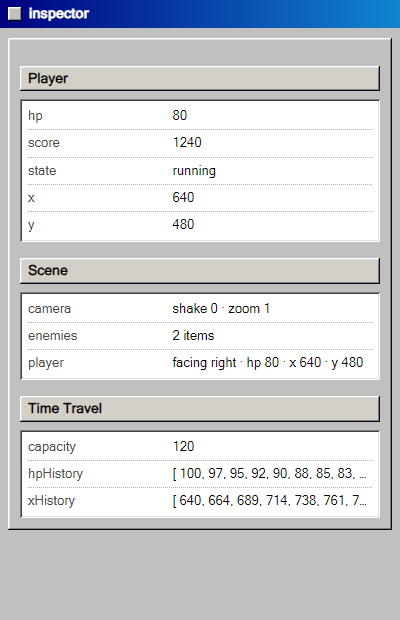
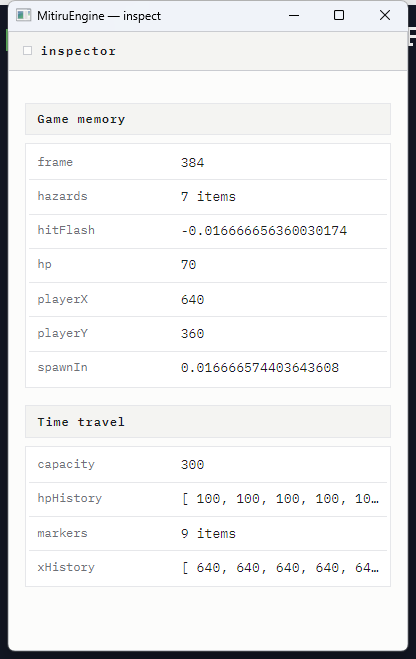
chore(release): snapshot

diff --git a/examples/mitiru_tool_cef/assets/tool.css b/examples/mitiru_tool_cef/assets/tool.css
@@ -1,53 +1,70 @@
-/* 全ツール窓 共通 Win95/98 同人質感スタイル (CEF/HTML 版)。
-   グレー地 + 立体ベベル枠 + 沈んだ well + ネイビーのタイトルバー。 */
+/* 全ツール窓 共通スタイル — テクニカルノートテーマ (紹介サイト/ポートフォリオと統一)。
+   クリーム紙 + グレースケール濃淡 + 極細罫線 + 等幅ラベル。陰影・ベベル・色は使わない。 */
+@import url('https://fonts.googleapis.com/css2?family=IBM+Plex+Mono:wght@400;500;600&family=Noto+Sans+JP:wght@400;500;700&display=swap');
+
 :root{
-  --bg:#c0c0c0; --bg2:#d4d0c8; --ink:#0a0a0a; --muted:#4a4a4a;
-  --accent:#000080; --accent2:#1084d0; --well:#ffffff; --track:#9a9a9a;
-  /* Win95 の 2px ベベル */
-  --raise: inset -1px -1px 0 #0a0a0a, inset 1px 1px 0 #ffffff,
-           inset -2px -2px 0 #808080, inset 2px 2px 0 #dfdfdf;
-  --sink:  inset 1px 1px 0 #808080, inset -1px -1px 0 #ffffff,
-           inset 2px 2px 0 #404040, inset -2px -2px 0 #dfdfdf;
+  --paper:#fcfcfb; --ink:#1a1c1f; --ink-body:#33363b; --muted:#6e7077; --faint:#999da4;
+  --rule:#c9cbd0; --rule-soft:#e6e7ea; --wash:#f4f4f2; --well:#ffffff;
+  --mono:'IBM Plex Mono','Noto Sans JP','Consolas',monospace;
+  --sans:'Noto Sans JP','Hiragino Kaku Gothic ProN',system-ui,sans-serif;
+  /* 旧 Saturn ベベル変数は no-op に (per-page で参照されても崩れないよう空 shadow) */
+  --raise:none; --sink:none; --bg:#fcfcfb; --bg2:#f4f4f2; --accent:#1a1c1f; --accent2:#1a1c1f; --track:#e6e7ea;
 }
 *{ box-sizing:border-box; margin:0; padding:0; }
 html,body{ height:100%; }
 body{
-  background:var(--bg); color:var(--ink);
-  font:400 13px/1.4 "MS Sans Serif",Tahoma,Geneva,system-ui,sans-serif;
-  padding:8px; user-select:none; overflow-x:hidden;
+  background:var(--paper); color:var(--ink-body);
+  font:400 13px/1.7 var(--sans);
+  font-feature-settings:"palt"; letter-spacing:.01em;
+  padding:0; user-select:none; overflow-x:hidden;
+  border:1px solid var(--rule);            /* 窓全体を 1px 罫で囲む */
+  -webkit-font-smoothing:antialiased;
 }
 
-/* タイトルバー (窓内のネイビー帯) */
+/* タイトルバー (ネイビー帯 → 紙地 + 下罫 + 等幅ラベル) */
 header{
-  display:flex; align-items:center; gap:7px;
-  background:linear-gradient(90deg,var(--accent),var(--accent2));
-  padding:4px 8px; margin:-8px -8px 10px; /* body padding を打ち消して上端まで */
+  display:flex; align-items:center; gap:8px;
+  background:var(--wash); padding:.55rem .9rem;
+  border-bottom:1px solid var(--rule);
 }
-header .dot{ width:14px; height:14px; background:#c0c0c0; box-shadow:var(--raise); flex:0 0 auto; }
-header h1{ font-size:14px; font-weight:700; color:#fff; letter-spacing:.3px;
-           text-shadow:1px 1px 0 rgba(0,0,0,.4); }
+header .dot{ width:9px; height:9px; border:1px solid var(--rule); background:var(--paper); flex:0 0 auto; }
+header h1{
+  font-family:var(--mono); font-size:.74rem; font-weight:600;
+  letter-spacing:.12em; color:var(--ink); text-shadow:none;
+}
 
-/* 本文の枠 (外周ベベル) */
-.body{ background:var(--bg); box-shadow:var(--raise); padding:12px; }
+/* 本文の枠 (ベベル → 余白のみ) */
+.body{ background:var(--paper); box-shadow:none; padding:.9rem 1rem 1.1rem; }
 
 .muted{ color:var(--muted); }
-.label{ margin-top:16px; font-size:12px; font-weight:700; color:var(--ink); }
-/* 沈んだ well (グラフ/数値表示の凹み面) */
-.panel{ margin-top:8px; background:var(--well); box-shadow:var(--sink); padding:8px; }
+.label{
+  margin-top:1.1rem; font-family:var(--mono); font-size:.66rem; font-weight:500;
+  letter-spacing:.12em; color:var(--faint);
+}
+.label::before{ content:"— "; color:var(--rule); }
+
+/* well/panel (沈んだ凹み → 白面 + 1px 罫) */
+.panel{ margin-top:.5rem; background:var(--well); box-shadow:none; border:1px solid var(--rule-soft); padding:.7rem .8rem; }
 
 /* waiting */
-.wait{ margin-top:40px; text-align:center; color:var(--muted); font-size:13px; display:none; }
+.wait{ margin-top:2.4rem; text-align:center; color:var(--faint); font-family:var(--mono); font-size:.78rem; letter-spacing:.06em; display:none; }
 body.is-waiting .wait{ display:block; }
-body.is-waiting .body{ opacity:.5; }
+body.is-waiting .body{ opacity:.45; }
 
-.num{ font-variant-numeric:tabular-nums; }
+.num{ font-family:var(--mono); font-variant-numeric:tabular-nums; }
 
-/* key/value 表 (inspector) — 沈んだリスト */
-.kv{ margin-top:8px; background:var(--well); box-shadow:var(--sink); padding:4px 8px; }
-.kv .row{ display:flex; padding:4px 0; border-bottom:1px dotted #b0b0b0; }
+/* key/value 表 (inspector) */
+.kv{ margin-top:.5rem; background:var(--well); box-shadow:none; border:1px solid var(--rule-soft); padding:.1rem .2rem; }
+.kv .row{ display:flex; padding:.35rem .5rem; border-bottom:1px solid var(--rule-soft); }
 .kv .row:last-child{ border-bottom:0; }
-.kv .k{ flex:0 0 42%; color:var(--muted); }
-.kv .v{ flex:1 1 auto; color:var(--ink); font-variant-numeric:tabular-nums;
+.kv .k{ flex:0 0 42%; font-family:var(--mono); font-size:.74rem; color:var(--muted); }
+.kv .v{ flex:1 1 auto; font-family:var(--mono); color:var(--ink); font-variant-numeric:tabular-nums;
         white-space:nowrap; overflow:hidden; text-overflow:ellipsis; }
-.section-title{ margin-top:16px; font-size:14px; font-weight:700;
-                background:var(--bg2); box-shadow:var(--raise); padding:3px 8px; }
+.section-title{
+  margin-top:1.1rem; font-family:var(--mono); font-size:.72rem; font-weight:600; letter-spacing:.1em;
+  color:var(--ink); background:var(--wash); box-shadow:none; border:1px solid var(--rule-soft);
+  padding:.35rem .7rem;
+}
+
+/* 大きな数値 (perf の fps 等、per-page で .num.big 等を使う場合の保険) */
+.big{ font-family:var(--mono); font-weight:600; }

diff --git a/examples/mitiru_tool_cef/assets/timetravel.html b/examples/mitiru_tool_cef/assets/timetravel.html
@@ -5,18 +5,22 @@
 <title>time travel</title>
 <link rel="stylesheet" href="tool.css">
 <style>
-  .frame{ margin-top:16px; font-size:22px; font-weight:600; font-variant-numeric:tabular-nums; }
-  .frame small{ font-size:14px; font-weight:500; color:var(--muted); margin-left:8px; }
-  .scrub{ margin-top:14px; height:16px; background:#fff; box-shadow:var(--sink);
-          position:relative; cursor:pointer; }
-  .scrub .cur{ position:absolute; top:0; width:5px; height:16px; background:var(--accent); }
+  /* テクニカルノート再テーマ: 色は ink(#1a1c1f)/sub(#6e7077)/faint(#999da4)/rule-soft(#e6e7ea) のみ。
+     彩度色・影・グラデ・ベベルは使わない。等幅は --mono (IBM Plex Mono)。 */
+  .frame{ margin-top:16px; font-family:var(--mono); font-size:22px; font-weight:600;
+          color:var(--ink); font-variant-numeric:tabular-nums; }
+  .frame small{ font-family:var(--mono); font-size:14px; font-weight:400; color:var(--faint); margin-left:8px; }
+  .scrub{ margin-top:14px; height:16px; background:var(--wash); box-shadow:none;
+          border:1px solid var(--rule-soft); position:relative; cursor:pointer; }
+  .scrub .cur{ position:absolute; top:0; width:3px; height:16px; background:var(--ink); }
   .chan{ margin-top:18px; }
-  .chan h3{ font-size:13px; color:var(--muted); text-transform:uppercase; letter-spacing:.5px;
-            display:flex; justify-content:space-between; }
+  .chan h3{ font-family:var(--mono); font-size:13px; color:var(--faint); text-transform:uppercase;
+            letter-spacing:.5px; display:flex; justify-content:space-between; }
   .chan h3 b{ color:var(--ink); font-variant-numeric:tabular-nums; }
-  .chan .panel{ margin-top:6px; padding:8px; }
+  .chan .panel{ margin-top:6px; padding:8px; background:var(--well); border:1px solid var(--rule-soft); }
   canvas{ display:block; width:100%; height:64px; }
-  .hint{ position:fixed; left:20px; right:20px; bottom:16px; color:var(--muted); font-size:13px; }
+  .hint{ position:fixed; left:20px; right:20px; bottom:16px; font-family:var(--mono);
+         color:var(--faint); font-size:13px; }
   .note{ margin-top:30px; color:var(--muted); font-size:13px; line-height:1.6; }
 </style>
 </head>
@@ -41,12 +45,16 @@
     x.clearRect(0,0,w,h);
     if(!arr.length) return;
     let mn=Math.min(...arr), mx=Math.max(...arr); if(mx===mn){mx=mn+1;}
-    x.strokeStyle='#000080'; x.lineWidth=2; x.lineJoin='round'; x.beginPath();
+    // データ線: ink (彩度色なし)。等幅 font は canvas に文字描画が無いので未設定。
+    x.font="11px 'IBM Plex Mono','Consolas',monospace";
+    x.strokeStyle='#1a1c1f'; x.lineWidth=2; x.lineJoin='round'; x.beginPath();
     for(let i=0;i<arr.length;i++){ const px=w*i/(arr.length-1||1), py=h-2-((arr[i]-mn)/(mx-mn))*(h-4); i?x.lineTo(px,py):x.moveTo(px,py); }
     x.stroke();
-    // scrub cursor
+    // scrub cursor: 赤を使わず ink の破線で表現 (データ線と区別)。
     const cx=w*cursor/(arr.length-1||1);
-    x.strokeStyle='#c8002c'; x.lineWidth=1; x.beginPath(); x.moveTo(cx,0); x.lineTo(cx,h); x.stroke();
+    x.strokeStyle='#1a1c1f'; x.lineWidth=1; x.setLineDash([3,3]);
+    x.beginPath(); x.moveTo(cx,0); x.lineTo(cx,h); x.stroke();
+    x.setLineDash([]);
   }
   function render(){
     if(!S) return;

diff --git a/examples/mitiru_tool_cef/assets/replay.html b/examples/mitiru_tool_cef/assets/replay.html
@@ -5,22 +5,24 @@
 <title>replay</title>
 <link rel="stylesheet" href="tool.css">
 <style>
-  .file{ margin-top:6px; font-size:13px; color:var(--muted); }
-  .counter{ margin-top:18px; font-size:22px; font-weight:600; font-variant-numeric:tabular-nums; }
-  .counter small{ font-size:14px; font-weight:500; color:var(--muted); margin-left:8px; }
-  .scrub{ margin-top:14px; height:16px; background:#fff; box-shadow:var(--sink);
+  /* テクニカルノートテーマ (tool.css と統一)。グレースケール / フラット / 等幅。 */
+  .file{ margin-top:6px; font-family:var(--mono); font-size:13px; color:var(--muted); }
+  .counter{ margin-top:18px; font-family:var(--mono); font-size:22px; font-weight:600; color:var(--ink);
+            font-variant-numeric:tabular-nums; }
+  .counter small{ font-size:14px; font-weight:500; color:var(--faint); margin-left:8px; }
+  .scrub{ margin-top:14px; height:16px; background:var(--paper); border:1px solid var(--rule-soft);
           position:relative; cursor:pointer; }
-  .scrub .cur{ position:absolute; top:0; width:5px; height:16px; background:var(--accent); }
-  .strip{ margin-top:10px; height:44px; background:#fff; box-shadow:var(--sink);
+  .scrub .cur{ position:absolute; top:0; width:3px; height:16px; background:#1a1c1f; }
+  .strip{ margin-top:10px; height:44px; background:var(--paper); border:1px solid var(--rule-soft);
           display:flex; align-items:flex-end; overflow:hidden; padding:2px; }
-  .strip i{ flex:1 1 0; background:var(--accent); opacity:.7; min-width:0; }
+  .strip i{ flex:1 1 0; background:#1a1c1f; opacity:.7; min-width:0; }
   .keys{ margin-top:18px; display:flex; flex-wrap:wrap; gap:6px; min-height:30px; }
-  .chip{ background:var(--bg2); box-shadow:var(--raise); color:var(--ink); padding:3px 10px;
-         font-size:13px; font-weight:700; }
-  .chip.empty{ box-shadow:var(--sink); color:var(--muted); font-weight:400; background:#fff; }
+  .chip{ background:var(--wash); border:1px solid var(--rule); color:var(--ink); padding:3px 10px;
+         font-family:var(--mono); font-size:13px; font-weight:600; }
+  .chip.empty{ background:var(--paper); border:1px solid var(--rule-soft); color:var(--faint); font-weight:400; }
   .det{ margin-top:14px; }
-  .hint{ position:fixed; left:20px; right:20px; bottom:16px; color:var(--muted); font-size:13px; }
-  .err{ margin-top:30px; color:#c8002c; font-size:15px; }
+  .hint{ position:fixed; left:20px; right:20px; bottom:16px; color:var(--faint); font-family:var(--mono); font-size:13px; }
+  .err{ margin-top:30px; color:var(--ink); font-family:var(--mono); font-size:15px; }
 </style>
 </head>
 <body class="is-waiting">

diff --git a/examples/mitiru_tool_cef/assets/mixer.html b/examples/mitiru_tool_cef/assets/mixer.html
@@ -5,17 +5,19 @@
 <title>mixer</title>
 <link rel="stylesheet" href="tool.css">
 <style>
+  /* メーター表示 — テクニカルノートテーマ (完全グレースケール。レベルは濃淡で表現) */
   .master{ display:flex; align-items:flex-end; gap:16px; margin-top:14px; }
-  .fader{ width:46px; height:200px; background:#fff; box-shadow:var(--sink);
+  .fader{ width:46px; height:200px; background:#ffffff; border:1px solid #e6e7ea; box-shadow:none;
           position:relative; overflow:hidden; }
-  .fader .fill{ position:absolute; left:2px; right:2px; bottom:2px; background:var(--accent); }
-  .pct{ font-size:28px; font-weight:700; font-variant-numeric:tabular-nums; }
+  .fader .fill{ position:absolute; left:2px; right:2px; bottom:2px; background:#1a1c1f; }
+  .pct{ font-family:'IBM Plex Mono','Consolas',monospace; font-size:28px; font-weight:600;
+        color:#1a1c1f; font-variant-numeric:tabular-nums; }
   .vu{ display:flex; gap:12px; margin-top:8px; }
   .ch{ display:flex; flex-direction:column; align-items:center; gap:6px; }
-  .ch .bar{ width:24px; height:200px; background:#fff; box-shadow:var(--sink);
+  .ch .bar{ width:24px; height:200px; background:#f4f4f2; border:1px solid #e6e7ea; box-shadow:none;
             position:relative; overflow:hidden; }
-  .ch .bar .fill{ position:absolute; left:2px; right:2px; bottom:2px; }
-  .ch .tag{ font-size:13px; color:var(--muted); }
+  .ch .bar .fill{ position:absolute; left:2px; right:2px; bottom:2px; background:#1a1c1f; }
+  .ch .tag{ font-family:'IBM Plex Mono','Consolas',monospace; font-size:13px; color:#999da4; }
   .cols{ display:flex; gap:40px; margin-top:14px; align-items:flex-start; }
 </style>
 </head>
@@ -55,7 +57,7 @@
     vu.innerHTML = chans.map(ch=>{
       const lv = Math.max(0,Math.min(1, ch.level ?? 0));
       const music = ch.kind === 'music';
-      const col = music ? 'var(--accent)' : '#808080';
+      const col = music ? '#1a1c1f' : '#6e7077';
       return `<div class="ch"><div class="bar"><div class="fill" style="height:${lv*100}%;background:${col}"></div></div><div class="tag">${music?'M':'S'}</div></div>`;
     }).join('');
   };

diff --git a/examples/mitiru_tool_cef/assets/scene.html b/examples/mitiru_tool_cef/assets/scene.html
@@ -5,23 +5,24 @@
 <title>scene tree</title>
 <link rel="stylesheet" href="tool.css">
 <style>
-  .tree{ margin-top:8px; padding:8px 10px; background:#fff; box-shadow:var(--sink);
-         font:400 14px/1.0 "Consolas",ui-monospace,"Courier New",monospace; }
+  .tree{ margin-top:8px; padding:8px 10px; background:#ffffff; box-shadow:none;
+         border:1px solid #e6e7ea;
+         font:400 14px/1.0 'IBM Plex Mono','Consolas',monospace; }
   .row{ display:flex; align-items:center; height:24px; white-space:nowrap; }
-  /* インデント + 点線コネクタ (Win95 Explorer 風) */
+  /* インデント + 罫線コネクタ (極細グレー罫) */
   .indent{ width:18px; height:24px; flex:0 0 18px; }
-  .indent.line{ background-image:linear-gradient(#b8b8b8 1px, transparent 1px);
+  .indent.line{ background-image:linear-gradient(#c9cbd0 1px, transparent 1px);
                 background-size:1px 2px; background-position:9px 0; background-repeat:repeat-y; }
   /* [+]/[-] 開閉ボックス */
   .tog{ width:15px; height:15px; flex:0 0 15px; margin-right:5px; cursor:pointer;
         display:flex; align-items:center; justify-content:center;
-        background:#fff; border:1px solid #808080; font-size:11px; line-height:1; color:#000;
-        font-family:monospace; user-select:none; }
+        background:#ffffff; border:1px solid #c9cbd0; font-size:11px; line-height:1; color:#1a1c1f;
+        font-family:'IBM Plex Mono','Consolas',monospace; user-select:none; }
   .tog.leaf{ border:0; background:transparent; cursor:default; }
-  .key{ color:#000; font-weight:700; }
-  .colon{ color:#888; margin:0 5px; }
-  .val{ color:#000080; font-weight:700; }
-  .obj-hint{ color:#888; margin-left:7px; font-weight:400; }
+  .key{ color:#1a1c1f; font-weight:700; }
+  .colon{ color:#999da4; margin:0 5px; }
+  .val{ color:#1a1c1f; font-weight:600; }
+  .obj-hint{ color:#999da4; margin-left:7px; font-weight:400; }
   .children.collapsed{ display:none; }
 </style>
 </head>

diff --git a/docs/features.html b/docs/features.html
@@ -336,7 +336,6 @@ hud.set(<span class="k">"view.boss.active"</span>, <span class="k">true</span>);
             <figure class="plate"><img src="assets/tool-perf.png" alt="perf 窓: fps と frame time のグラフ" loading="lazy"><figcaption><code>Perf</code> — fps / フレーム時間</figcaption></figure>
             <figure class="plate"><img src="assets/tool-inspect.png" alt="inspector 窓: 送った値の一覧" loading="lazy"><figcaption><code>Inspector</code> — 観察データ一覧</figcaption></figure>
             <figure class="plate"><img src="assets/tool-timetravel.png" alt="time travel 窓: 過去フレームのスクラブ" loading="lazy"><figcaption><code>TimeTravel</code> — 巻き戻し</figcaption></figure>
-            <figure class="plate"><img src="assets/tool-replay.png" alt="replay 窓: 録画のフレーム再生" loading="lazy"><figcaption><code>Replay</code> — 録画再生</figcaption></figure>
             <figure class="plate"><img src="assets/tool-scene.png" alt="scene tree 窓: 状態の階層ツリー" loading="lazy"><figcaption><code>SceneTree</code> — 階層ツリー</figcaption></figure>
             <figure class="plate"><img src="assets/tool-mixer.png" alt="mixer 窓: 音量と VU" loading="lazy"><figcaption><code>AudioMixer</code> — 音量・VU</figcaption></figure>
           </div>

diff --git a/examples/mitiru_tool_cef/assets/perf.html b/examples/mitiru_tool_cef/assets/perf.html
@@ -30,10 +30,10 @@
     const x=c.getContext('2d'); x.scale(dpr,dpr); x.clearRect(0,0,w,h);
     let mx=75; for(const v of hist) mx=Math.max(mx,v*1.1);
     const by=h-(60/mx)*h;
-    x.strokeStyle='#d4d4da'; x.lineWidth=1; x.beginPath(); x.moveTo(0,by); x.lineTo(w,by); x.stroke();
-    x.fillStyle='#a0a0a8'; x.font='12px -apple-system,Segoe UI,sans-serif'; x.fillText('60',w-22,by-6);
+    x.strokeStyle='#e6e7ea'; x.lineWidth=1; x.beginPath(); x.moveTo(0,by); x.lineTo(w,by); x.stroke();
+    x.fillStyle='#999da4'; x.font="12px 'IBM Plex Mono','Consolas',monospace"; x.fillText('60',w-22,by-6);
     if(hist.length>=2){
-      x.strokeStyle='#000080'; x.lineWidth=2; x.lineJoin='round'; x.beginPath();
+      x.strokeStyle='#1a1c1f'; x.lineWidth=2; x.lineJoin='round'; x.beginPath();
       for(let i=0;i<hist.length;i++){ const px=w*i/(CAP-1), py=h-(hist[i]/mx)*h; i?x.lineTo(px,py):x.moveTo(px,py); }
       x.stroke();
     }
